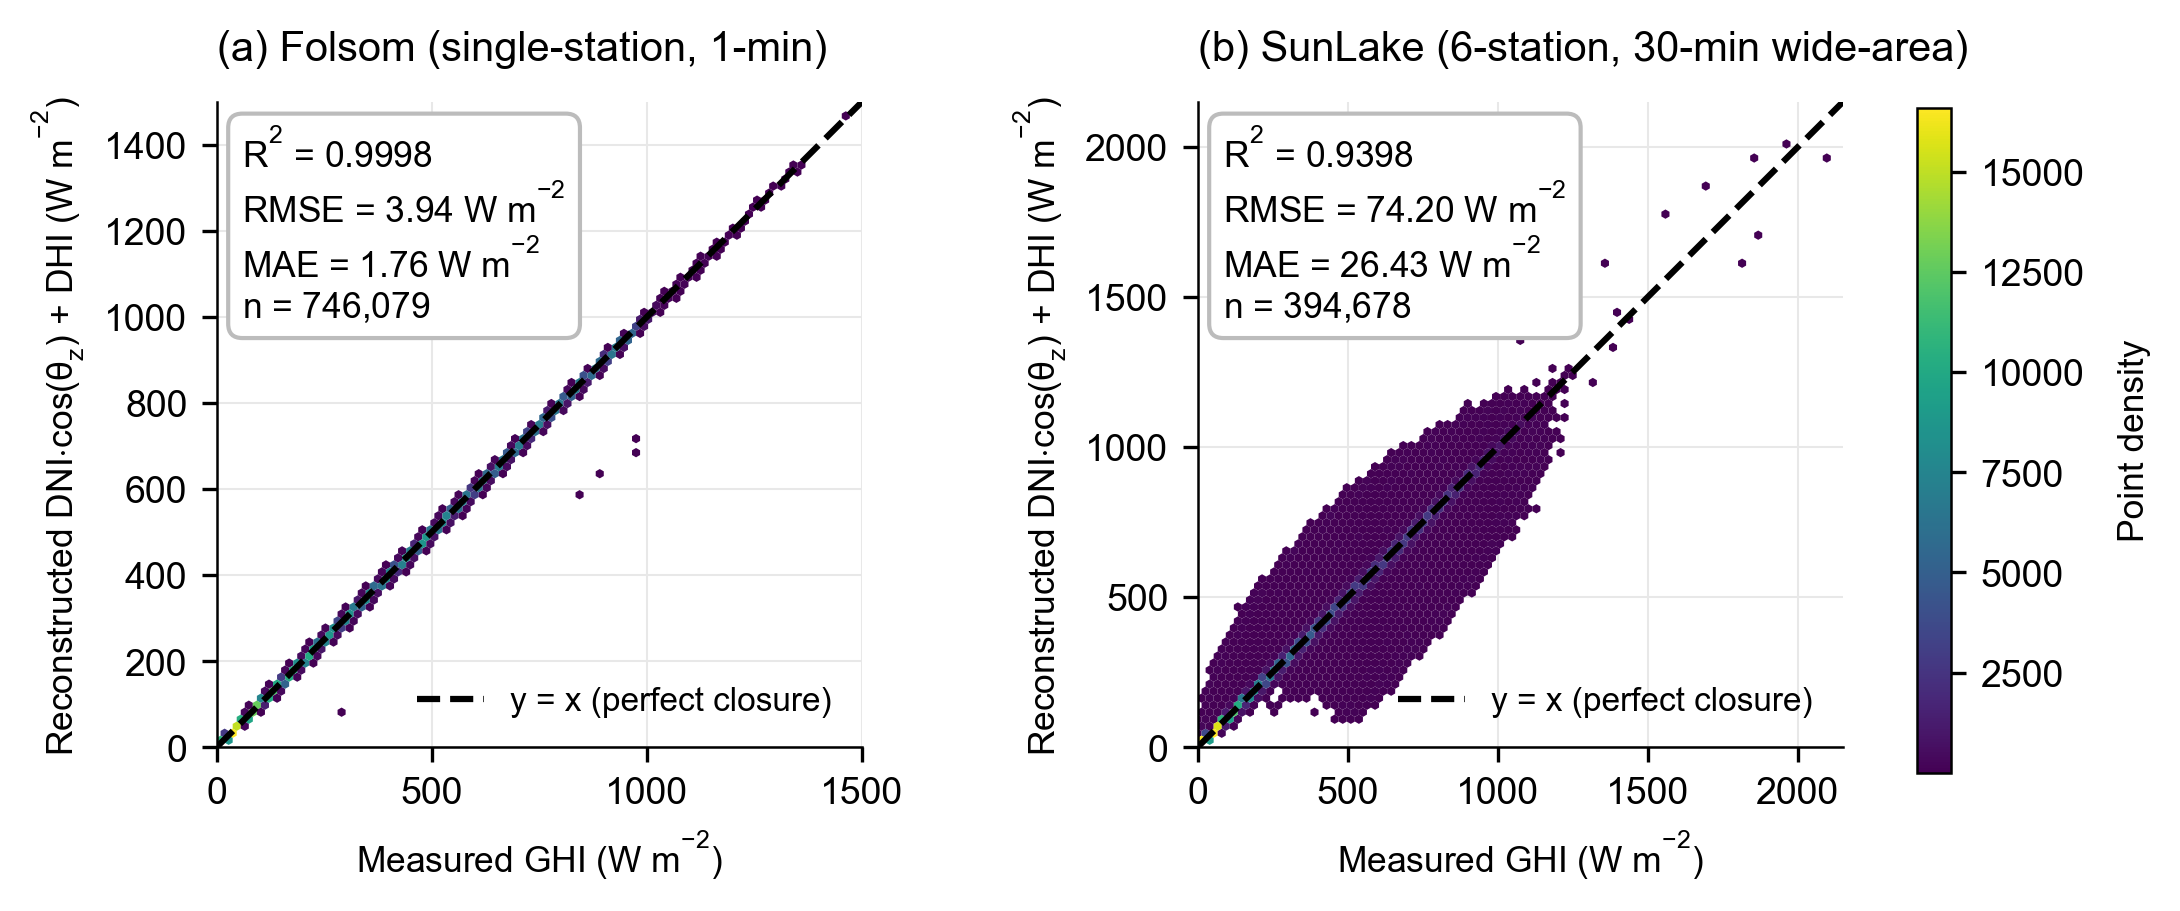
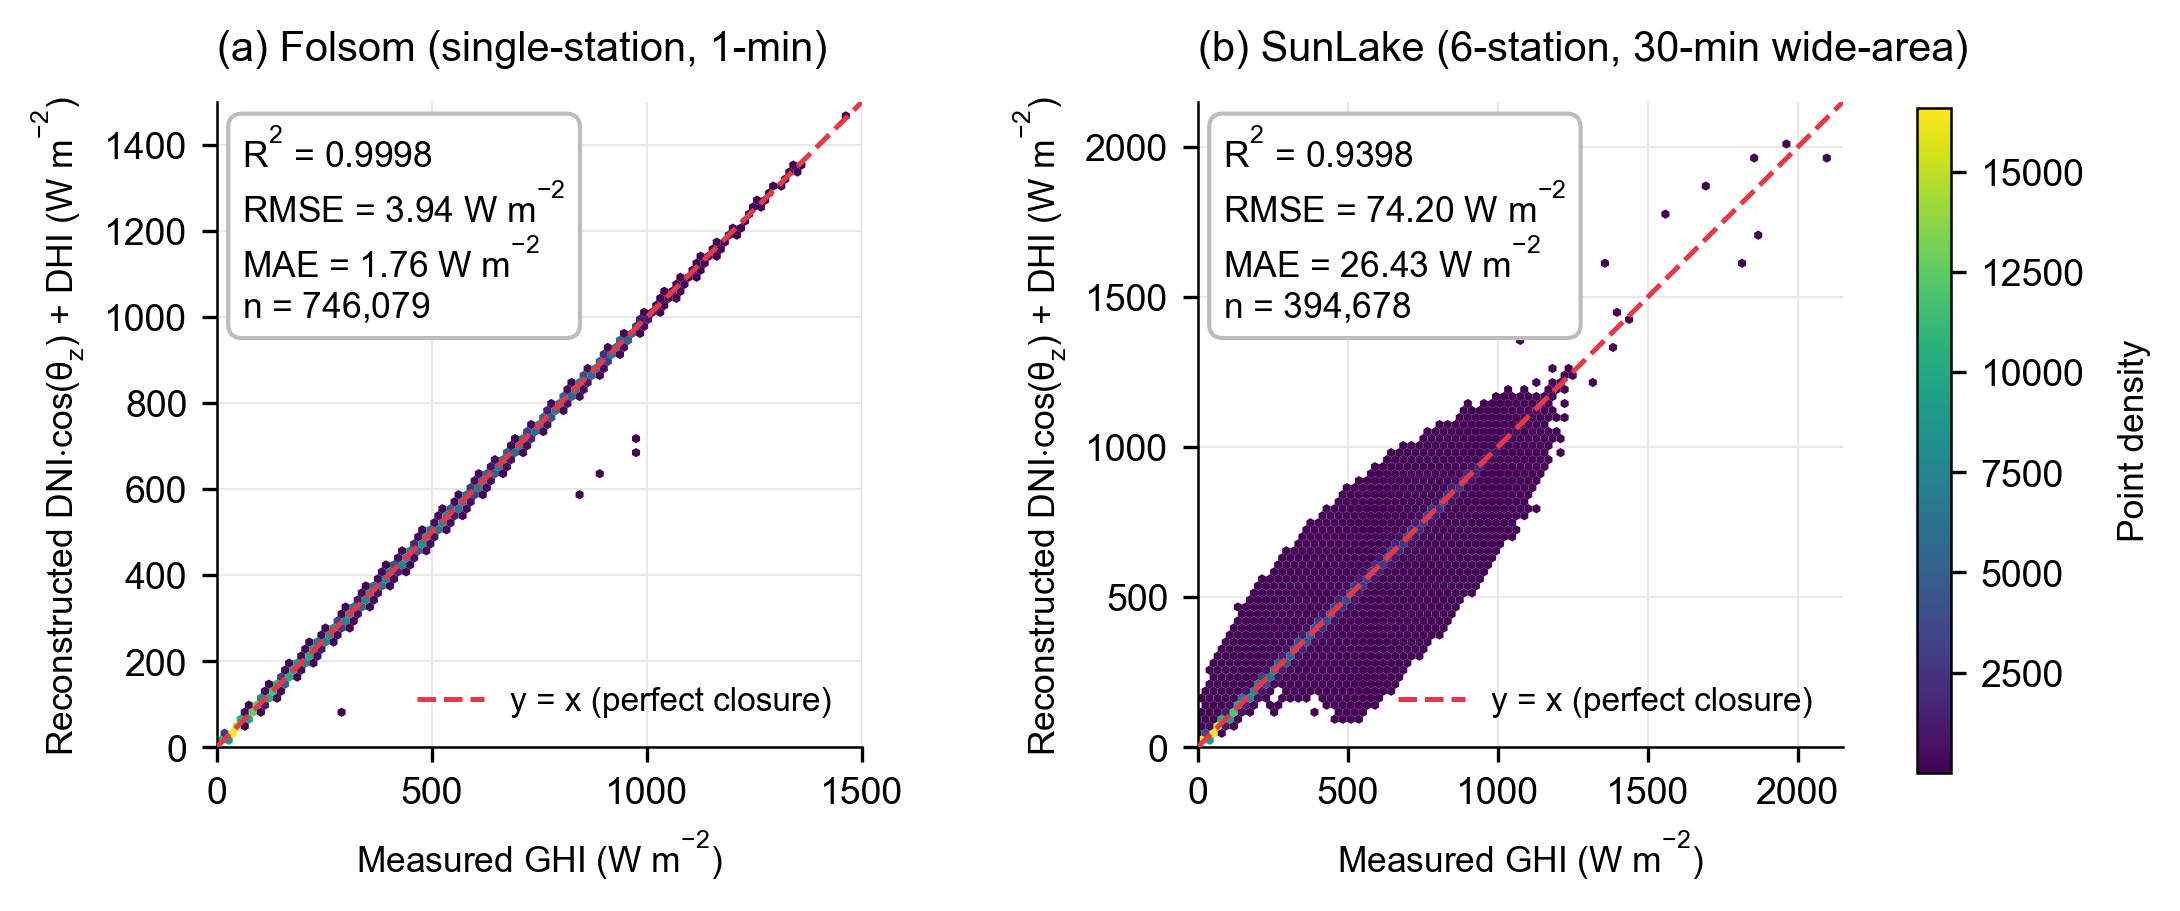
viz(essd): fig7 y=x reference black -> high-contrast red #E63946, 1.5 -> 1.2 pt — stronger separation from the viridis ramp; legend inherits

diff --git a/scripts/plot_essd_fig7_closure.py b/scripts/plot_essd_fig7_closure.py
@@ -38,8 +38,9 @@ WONG_PALETTE = ["#E69F00", "#56B4E9", "#009E73", "#CC79A7",
                 "#D55E00", "#F0E442", "#0072B2", "#000000"]
 GRID_COLOR = "#E8E8E8"
 GRID_WIDTH = 0.5
-DIAGONAL_COLOR = "#000000"   # black y=x reference — decoupled from the
-                              # viridis colorbar, CVD-safe against every ramp step
+DIAGONAL_COLOR = "#E63946"   # high-contrast red y=x reference — viridis has
+                              # no red hue, so the diagonal separates from every
+                              # ramp step
 STATS_PT = 8.5
 TITLE_PT = 10
 
@@ -87,7 +88,7 @@ def main() -> int:
         hb = ax.hexbin(ghi, recon, gridsize=80, cmap="viridis", mincnt=1,
                        edgecolors="none", extent=[0, lim, 0, lim], zorder=2)
         ax.plot([0, lim], [0, lim], color=DIAGONAL_COLOR, linestyle="--",
-                linewidth=1.5, label="y = x (perfect closure)", zorder=3)
+                linewidth=1.2, label="y = x (perfect closure)", zorder=3)
         ax.set_xlim(0, lim); ax.set_ylim(0, lim)
         ax.grid(**grid_kw)
         ax.set_title(title, loc="left", fontsize=TITLE_PT, pad=10)
